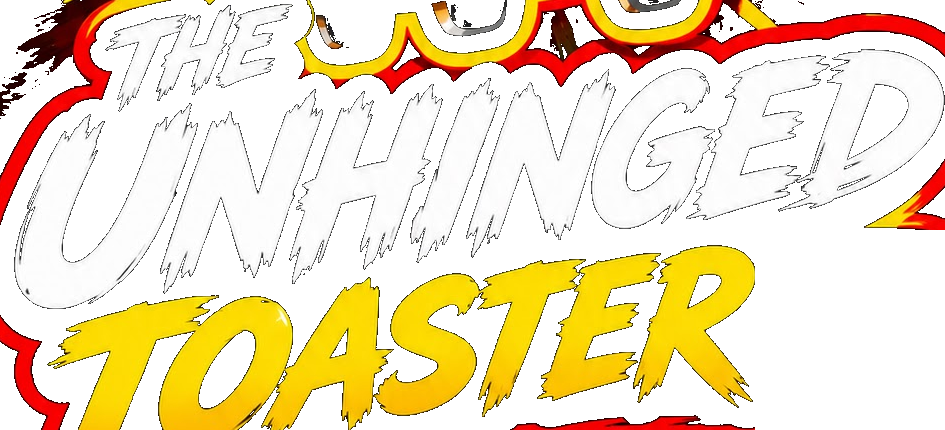
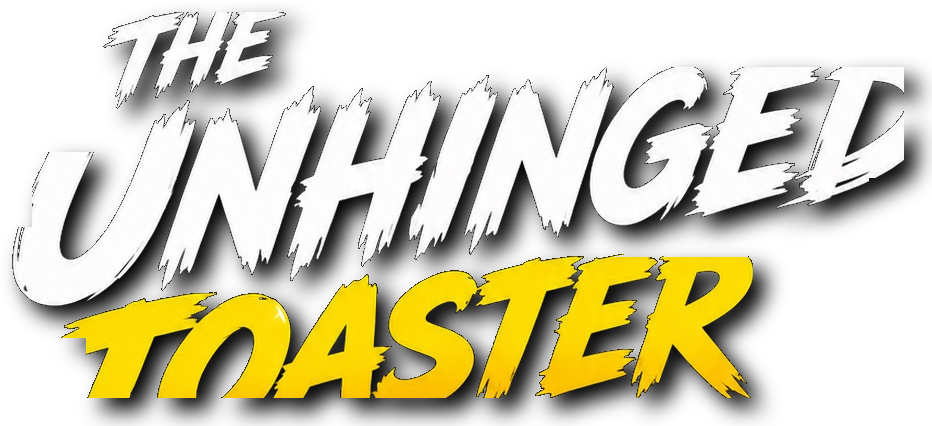
Brush-style headline, cold-open commentary, clean wordmark
- Headline rendered as layered lettering (white/yellow fill, black
  outline, red glow) in the channel-art style; the generated burst box is
  optional (headline.style = box) and its input is only loaded when used.
- Commentary moves to a cold open: voice-over starts at 0.35 s with the
  clip audio ducked underneath, text shown for the voice-over length;
  outro mode now sizes the outro to the actual voice-over so a sentence is
  never cut off.
- Wordmark cut from the avatar cleaned of burst fragments and given a soft
  drop shadow.

Claude-Session: https://claude.ai/code/session_01VnUqamHwBrwjaPh43Km4dw

diff --git a/packages/pipeline/src/steps/render.ts b/packages/pipeline/src/steps/render.ts
@@ -11,12 +11,12 @@ export interface Template {
   font: string;
   assets: Record<string, string>;
   handle: string;
-  headline: { x: number; y: number; boxWidth: number; coverBoxWidth?: number; coverY?: number; maxCharsPerLine: number; maxLines: number; fontSizes: number[]; fill: string; outline: string; outlineWidth: number };
+  headline: { style?: 'text' | 'box'; x: number; y: number; textTop?: number; coverTextTop?: number; boxWidth: number; coverBoxWidth?: number; coverY?: number; maxCharsPerLine: number; maxLines: number; fontSizes: number[]; fill: string; accentFill?: string; outline: string; outlineWidth: number; glow?: string; glowWidth?: number };
   clip: { maxWidth: number; maxHeight: number; coverIfTallerThan?: number; landscapeCenterY?: number; minTop?: number; frameWidth: number; shadowOffset: number };
   captions: { fontSize: number; bottomPadding: number; coverMarginV?: number; activeColor: string; idleColor: string; outlineColor: string };
   mascot: { width: number; coverWidth?: number; right: number; bottom: number; bobAmplitude: number; bobSpeed: number };
   watermark: { logoWidth: number; x: number; y: number; fontSize: number; wordmarkWidth?: number; wordmarkBottom?: number };
-  commentary: { position: 'outro' | 'intro'; outroSeconds: number; fontSize: number; boxColor: string; textColor: string; y: number; maxCharsPerLine: number; maxLines?: number };
+  commentary: { position: 'outro' | 'intro'; introDelay?: number; duckVolume?: number; outroSeconds: number; fontSize: number; boxColor: string; textColor: string; y: number; maxCharsPerLine: number; maxLines?: number };
   audio: { musicVolume: number; voVolume: number; loudnorm: string };
   limits: { maxDurationSec: number };
 }
@@ -76,8 +76,13 @@ export async function renderShort(cfg: Config, t: Template, job: RenderJob): Pro
   const probe = await ffprobe(job.clipPath);
   const W = t.canvas.width, H = t.canvas.height, fps = t.canvas.fps;
   const mode: CommentaryMode = job.commentaryMode ?? 'outro_voice';
-  const outro = mode !== 'none' && t.commentary.position === 'outro' ? t.commentary.outroSeconds : 0;
   const useVo = mode === 'outro_voice' && !!job.voPath;
+  const voDur = useVo ? (await ffprobe(job.voPath!).catch(() => null))?.duration ?? 3.0 : 0;
+  const intro = t.commentary.position === 'intro' && mode !== 'none';
+  // outro only when the commentary is placed at the end; always long enough for the whole sentence
+  const outro = !intro && mode !== 'none' ? Math.max(t.commentary.outroSeconds, useVo ? voDur + 0.5 : 0) : 0;
+  const introStart = t.commentary.introDelay ?? 0.35;
+  const introEnd = intro ? introStart + (useVo ? voDur : 3.0) + 0.2 : 0;
   const maxClip = t.limits.maxDurationSec - outro;
   const srcDur = Math.min(probe.duration, maxClip);
   const tl: EditTimeline = job.timeline ?? planEdit({ sourceDuration: srcDur, peak: null, maxTotal: maxClip, style: 'light' });
@@ -127,7 +132,7 @@ export async function renderShort(cfg: Config, t: Template, job: RenderJob): Pro
   const iBg = useBgLoop ? add('-stream_loop', '-1', '-i', bgLoop) : add('-loop', '1', '-framerate', String(fps), '-i', bgStill!);
   const iClip = add('-i', job.clipPath);
   const iMascot = add('-loop', '1', '-i', mascot);
-  const iBox = add('-loop', '1', '-i', hbox);
+  const iBox = (t.headline.style ?? 'text') === 'box' ? add('-loop', '1', '-i', hbox) : -1;
   const iLogo = add('-loop', '1', '-i', logo);
   const shoutPath = path.join(cfg.assetsDir, 'brand', 'mascot_shout.png');
   const iShout = fs.existsSync(shoutPath) ? add('-loop', '1', '-i', shoutPath) : -1;
@@ -189,24 +194,41 @@ export async function renderShort(cfg: Config, t: Template, job: RenderJob): Pro
   if (cover && cw === W && ch === H) f.push('[v1]null[v2]');
   else f.push(`[v1]drawbox=x=${cx - fw}:y=${cy - fw}:w=${cw + 2 * fw}:h=${ch + 2 * fw}:color=${t.colors.yellow}:t=${fw}[v2]`);
 
-  // headline box + text (smaller and higher in cover mode so it overlaps as little footage as possible)
+  // headline: brush-style lettering in the channel-art look (white/yellow letters, black outline, red glow), no box
   const lines = wrapText(job.headline, t.headline.maxCharsPerLine, t.headline.maxLines);
-  const hboxW = cover ? (t.headline.coverBoxWidth ?? 900) : t.headline.boxWidth;
-  const hboxX = Math.round((W - hboxW) / 2);
-  const hboxY = cover ? (t.headline.coverY ?? 40) : t.headline.y;
-  const hScale = hboxW / t.headline.boxWidth;
-  const fsz = Math.round(t.headline.fontSizes[Math.min(lines.length, t.headline.fontSizes.length) - 1] * hScale);
-  f.push(`[${iBox}:v]scale=${hboxW}:-1[hbox]`);
-  f.push(`[v2][hbox]overlay=x=${hboxX}:y=${hboxY}[v3]`);
-  const boxH = Math.round(hboxW * 0.34);
-  const lineH = Math.round(fsz * 1.02);
-  const textTop = hboxY + Math.round((boxH - lines.length * lineH) / 2);
-  let cur = 'v3';
-  lines.forEach((line, i) => {
-    const nxt = `h${i}`;
-    f.push(`[${cur}]drawtext=fontfile='${esc(font)}':text='${escapeDrawtext(line)}':fontsize=${fsz}:fontcolor=${t.headline.fill}:borderw=${t.headline.outlineWidth}:bordercolor=${t.headline.outline}:x=(w-text_w)/2:y=${textTop + i * lineH}[${nxt}]`);
-    cur = nxt;
-  });
+  let cur = 'v2';
+  if ((t.headline.style ?? 'text') === 'box') {
+    const hboxW = cover ? (t.headline.coverBoxWidth ?? 900) : t.headline.boxWidth;
+    const hboxX = Math.round((W - hboxW) / 2);
+    const hboxY = cover ? (t.headline.coverY ?? 40) : t.headline.y;
+    const hScale = hboxW / t.headline.boxWidth;
+    const fsz = Math.round(t.headline.fontSizes[Math.min(lines.length, t.headline.fontSizes.length) - 1] * hScale);
+    f.push(`[${iBox}:v]scale=${hboxW}:-1[hbox]`);
+    f.push(`[v2][hbox]overlay=x=${hboxX}:y=${hboxY}[v3]`);
+    cur = 'v3';
+    const boxH = Math.round(hboxW * 0.34);
+    const lineH = Math.round(fsz * 1.02);
+    const textTop = hboxY + Math.round((boxH - lines.length * lineH) / 2);
+    lines.forEach((line, i) => {
+      const nxt = `h${i}`;
+      f.push(`[${cur}]drawtext=fontfile='${esc(font)}':text='${escapeDrawtext(line)}':fontsize=${fsz}:fontcolor=${t.headline.fill}:borderw=${t.headline.outlineWidth}:bordercolor=${t.headline.outline}:x=(w-text_w)/2:y=${textTop + i * lineH}[${nxt}]`);
+      cur = nxt;
+    });
+  } else {
+    const fsz = t.headline.fontSizes[Math.min(lines.length, t.headline.fontSizes.length) - 1];
+    const lineH = Math.round(fsz * 1.0);
+    const textTop = cover ? (t.headline.coverTextTop ?? 120) : (t.headline.textTop ?? 150);
+    const glow = t.headline.glow ?? t.colors.red, glowW = t.headline.glowWidth ?? 22;
+    lines.forEach((line, i) => {
+      const y = textTop + i * lineH;
+      const fill = i === lines.length - 1 && lines.length > 1 ? (t.headline.accentFill ?? t.headline.fill) : t.headline.fill; // last line in yellow like "TOASTER"
+      const common = `fontfile='${esc(font)}':text='${escapeDrawtext(line)}':fontsize=${fsz}:x=(w-text_w)/2:y=${y}`;
+      f.push(`[${cur}]drawtext=${common}:fontcolor=${glow}:borderw=${glowW}:bordercolor=${glow}[g${i}]`);              // red glow
+      f.push(`[g${i}]drawtext=${common}:fontcolor=${t.headline.outline}:borderw=${t.headline.outlineWidth + 4}:bordercolor=${t.headline.outline}[o${i}]`); // black outline
+      f.push(`[o${i}]drawtext=${common}:fontcolor=${fill}:borderw=2:bordercolor=${fill}[h${i}]`);                        // letter fill
+      cur = `h${i}`;
+    });
+  }
 
   // captions
   if (assFile) {
@@ -224,7 +246,7 @@ export async function renderShort(cfg: Config, t: Template, job: RenderJob): Pro
 
   // commentary text (outro_voice / text_only); with mode 'none' the clip's own sound carries the ending
   const cLines = mode === 'none' ? [] : wrapText(job.commentary, t.commentary.maxCharsPerLine, t.commentary.maxLines ?? 3);
-  const enable = outro > 0 ? `gte(t,${editedDur.toFixed(2)})` : `lt(t,${Math.min(editedDur, 3.5).toFixed(2)})`;
+  const enable = intro ? `between(t,${introStart.toFixed(2)},${introEnd.toFixed(2)})` : outro > 0 ? `gte(t,${editedDur.toFixed(2)})` : `lt(t,${Math.min(editedDur, 3.5).toFixed(2)})`;
   cLines.forEach((line, i) => {
     const nxt = `c${i}`;
     f.push(`[${cur}]drawtext=fontfile='${esc(font)}':text='${escapeDrawtext(line)}':fontsize=${t.commentary.fontSize}:fontcolor=${t.commentary.textColor}:box=1:boxcolor=${t.commentary.boxColor}:boxborderw=14:x=(w-text_w)/2-120:y=${t.commentary.y + i * Math.round(t.commentary.fontSize * 1.25)}:enable='${enable}'[${nxt}]`);
@@ -247,7 +269,7 @@ export async function renderShort(cfg: Config, t: Template, job: RenderJob): Pro
   f.push(`[${iMascot}:v]scale=${mascotW}:-1[masc]`);
   if (iShout >= 0) {
     const stickerWin = b.sticker ? `+between(t,${tl.map(b.sticker.at).toFixed(3)},${(tl.map(b.sticker.at) + b.sticker.duration).toFixed(3)})` : '';
-    const shoutEnable = `(${mode === 'none' ? '0' : outro > 0 ? `gte(t,${editedDur.toFixed(2)})` : `lt(t,${Math.min(editedDur, 3.5).toFixed(2)})`}${stickerWin})`;
+    const shoutEnable = `(${mode === 'none' ? '0' : intro ? `between(t,${introStart.toFixed(2)},${introEnd.toFixed(2)})` : outro > 0 ? `gte(t,${editedDur.toFixed(2)})` : `lt(t,${Math.min(editedDur, 3.5).toFixed(2)})`}${stickerWin})`;
     f.push(`[${iShout}:v]scale=${mascotW}:-1[shout]`);
     f.push(`[wm][masc]overlay=x=W-w-${t.mascot.right}:y=H-h-${t.mascot.bottom}+${t.mascot.bobAmplitude}*sin(t*${t.mascot.bobSpeed}):eval=frame:enable='not(${shoutEnable})'[m1]`);
     f.push(`[m1][shout]overlay=x=W-w-${t.mascot.right}:y=H-h-${t.mascot.bottom}+${t.mascot.bobAmplitude * 1.6}*sin(t*${t.mascot.bobSpeed * 2.5}):eval=frame:enable='${shoutEnable}':format=auto,format=yuv420p[vout]`);
@@ -280,10 +302,11 @@ export async function renderShort(cfg: Config, t: Template, job: RenderJob): Pro
     aParts.push(`[${amain}][arep]concat=n=2:v=0:a=1[aedit]`);
     amain = 'aedit';
   }
-  aParts.push(`[${amain}]apad=pad_dur=${outro}[ca]`);
+  const duck = intro && useVo ? `,volume=${t.commentary.duckVolume ?? 0.25}:enable='between(t,${introStart.toFixed(2)},${introEnd.toFixed(2)})'` : '';
+  aParts.push(`[${amain}]apad=pad_dur=${outro}${duck}[ca]`);
   mixIn.push('[ca]');
   if (iVo >= 0) {
-    const delayMs = Math.round((outro > 0 ? editedDur + 0.15 : 0.3) * 1000);
+    const delayMs = Math.round((intro ? introStart : outro > 0 ? editedDur + 0.15 : 0.3) * 1000);
     aParts.push(`[${iVo}:a]aresample=48000,volume=${t.audio.voVolume},adelay=${delayMs}:all=1[vo]`);
     mixIn.push('[vo]');
   }
@@ -309,7 +332,7 @@ export async function renderShort(cfg: Config, t: Template, job: RenderJob): Pro
     '-movflags', '+faststart',
     job.outPath,
   ];
-  log.info(`ffmpeg render -> ${path.basename(job.outPath)} (${total.toFixed(1)}s = clip ${D.toFixed(1)}s + freeze ${tl.freezeDuration}s + replay ${tl.replayDuration}s + outro ${outro}s [${mode}]; ${cover ? 'full-screen' : 'full-width'} ${cw}x${ch} at ${cx},${cy}; source ${probe.width}x${probe.height}, scale x${containScale.toFixed(2)}${sharpen ? ' +sharpen' : ''})`);
+  log.info(`ffmpeg render -> ${path.basename(job.outPath)} (${total.toFixed(1)}s = clip ${D.toFixed(1)}s + freeze ${tl.freezeDuration}s + replay ${tl.replayDuration}s + outro ${outro.toFixed(1)}s [${mode}${intro ? ' intro' : ''}${useVo ? ` vo ${voDur.toFixed(1)}s` : ''}]; ${cover ? 'full-screen' : 'full-width'} ${cw}x${ch} at ${cx},${cy}; source ${probe.width}x${probe.height}, scale x${containScale.toFixed(2)}${sharpen ? ' +sharpen' : ''})`);
   await run('ffmpeg', args);
 
   const thumbnailPath = job.outPath.replace(/\.mp4$/, '.jpg');

diff --git a/packages/pipeline/src/demo.ts b/packages/pipeline/src/demo.ts
@@ -61,9 +61,10 @@ export async function runDemo(cfg: Config, flags: Record<string, string | boolea
   const probeQ = await (await import('./steps/media.js')).ffprobe(clip);
   const tier = qualityTier(probeQ.width, probeQ.height);
   log.info(`source ${probeQ.width}x${probeQ.height} -> quality tier ${tier}${tier === 'low' ? ' (the production pipeline REJECTS this; demo continues)' : tier === 'ok' ? ' (used only when 1080p stock runs out)' : ''}`);
+  const outroReserve = t.commentary.position === 'intro' ? 0 : t.commentary.outroSeconds + 1.5;
   const timeline = planEdit({
-    sourceDuration: Math.min(analysis.duration, t.limits.maxDurationSec - t.commentary.outroSeconds), peak: analysis.peak?.t ?? null,
-    maxTotal: t.limits.maxDurationSec - t.commentary.outroSeconds, style: copy.edit_style ?? 'full', stickerText: copy.sticker ?? null, freezeText: copy.freeze_text ?? null,
+    sourceDuration: Math.min(analysis.duration, t.limits.maxDurationSec - outroReserve), peak: analysis.peak?.t ?? null,
+    maxTotal: t.limits.maxDurationSec - outroReserve, style: copy.edit_style ?? 'full', stickerText: copy.sticker ?? null, freezeText: copy.freeze_text ?? null,
     hasSpeech: realClip ? (transcript?.words.length ?? 0) >= 6 : false, // synthetic demo forces the full beat set
   });
   if (flags.commentary === 'none') { /* no outro: the planner already got maxTotal with outro included; fine for a 9 s demo */ }

diff --git a/packages/pipeline/src/steps/produce.ts b/packages/pipeline/src/steps/produce.ts
@@ -75,7 +75,8 @@ export async function produceCandidate(cfg: Config, store: Store, c: Candidate, 
     const analysis = await analyzeClip(src);
     const flags = (JSON.parse(c.safety_flags ?? '[]') as string[]);
     const muteSource = flags.includes('copyrighted_music');
-    const outroSec = commentaryMode === 'none' ? 0 : template.commentary.outroSeconds;
+    const voDur = vo ? (await ffprobe(vo).catch(() => null))?.duration ?? 3 : 0;
+    const outroSec = commentaryMode === 'none' || template.commentary.position === 'intro' ? 0 : Math.max(template.commentary.outroSeconds, voDur + 0.5);
     const timeline = planEdit({
       sourceDuration: Math.min(probe.duration, template.limits.maxDurationSec - outroSec),
       peak: analysis.peak?.t ?? null,
